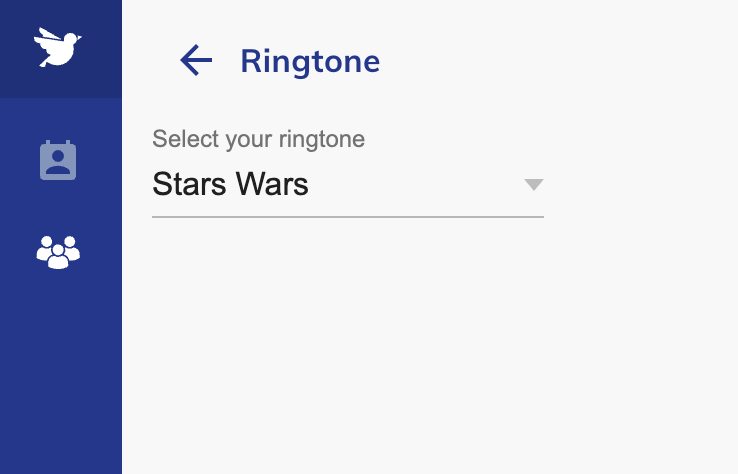
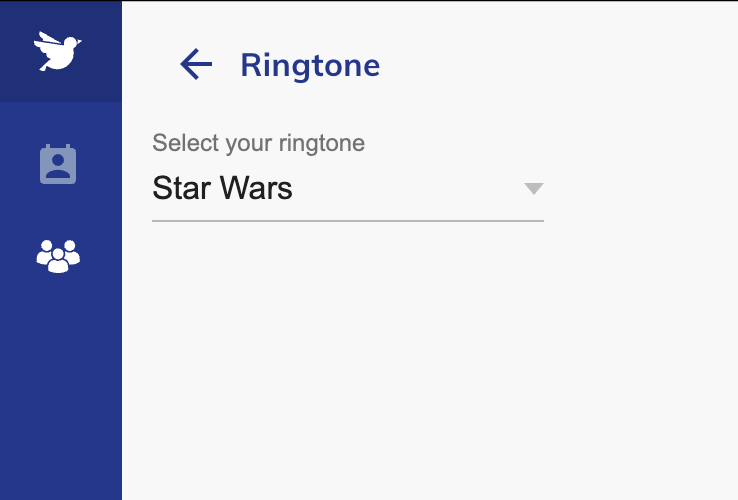
fix typo

diff --git a/ring.js b/ring.js
@@ -12,7 +12,7 @@ const options = {
   "ring3.wav": "Ring 3",
   "ring4.wav": "Ring 4",
   "ring5.wav": "Ring 5",
-  "dark_side_ringtone.mp3": "Stars Wars"
+  "dark_side_ringtone.mp3": "Star Wars"
 };
 
 app.onIframeMessage = (msg) => {
